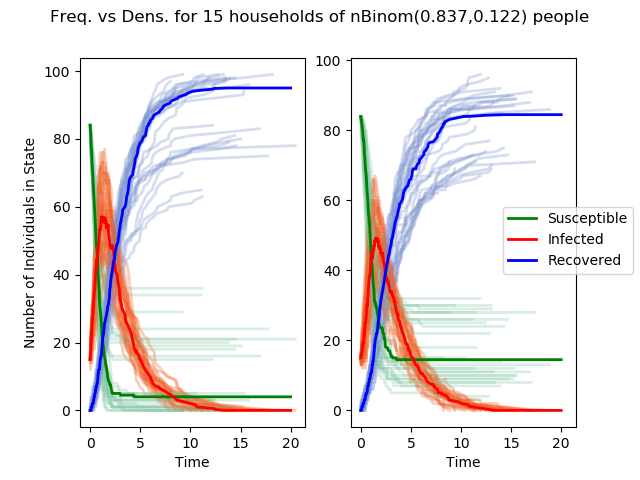
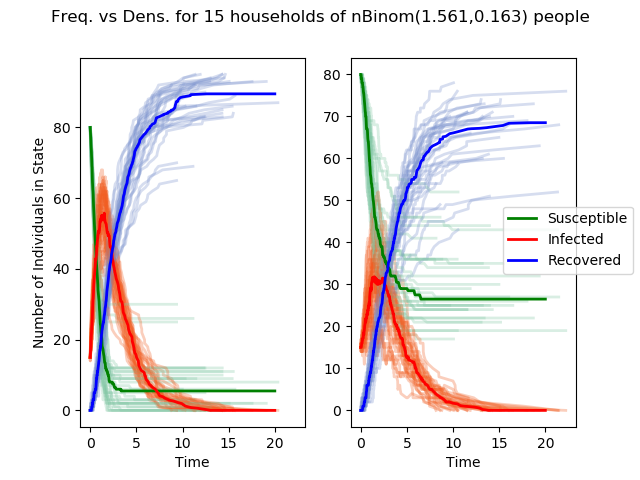
found better binom params

diff --git a/Density_Frequency_Experimentation.py b/Density_Frequency_Experimentation.py
@@ -406,14 +406,14 @@ def main(er_small_test=True, household_test=True, random_test=True, random_sd_te
         plt.savefig(f"PythonPlotting/Comparisons/FD_Poisson_Household_Comp")
 
     if(random_sd_test):
-        print("Beginning density vs frequency household nBinom simulations, mean = 6, sd in [3,5,7,9]")
+        print("Beginning density vs frequency household nBinom simulations, mean = 8, sd in [3,5,7,9]")
         # initialise variables
         tMax = 20
         maxalpha = 0.4
         maxbeta = 4
         t = np.linspace(0,tMax,1000)
         j = 30
-        mu = 6
+        mu = 8
         sd = np.array([3,5,7,9])
         ps = mu/sd**2
         ns = mu**2/(sd**2-mu)
@@ -447,7 +447,7 @@ def main(er_small_test=True, household_test=True, random_test=True, random_sd_te
             # set infection hazard
             rates[inf] = maxbeta*numSusNei[inf]/network.degree(inf)
         title = f"Freq. vs Dens. for {N} households of nBinom({n:.3f},{p:.3f}) people"
-        fname = f"PythonPlotting/Freq_Dens_Poisson_Test/{sd[1]}"
+        fname = f"PythonPlotting/Freq_Dens_nbinom_Test/{sd[1]}"
         S6freq, I6freq, R6freq, S6dens, I6dens, R6dens = freq_dens_simulation(j, gillespieFrequency, gillespieDensity, tMax, network, iTotal, sTotal, rTotal, numSusNei, rates, susceptible, 
         maxalpha, maxbeta, title, fname)
 
